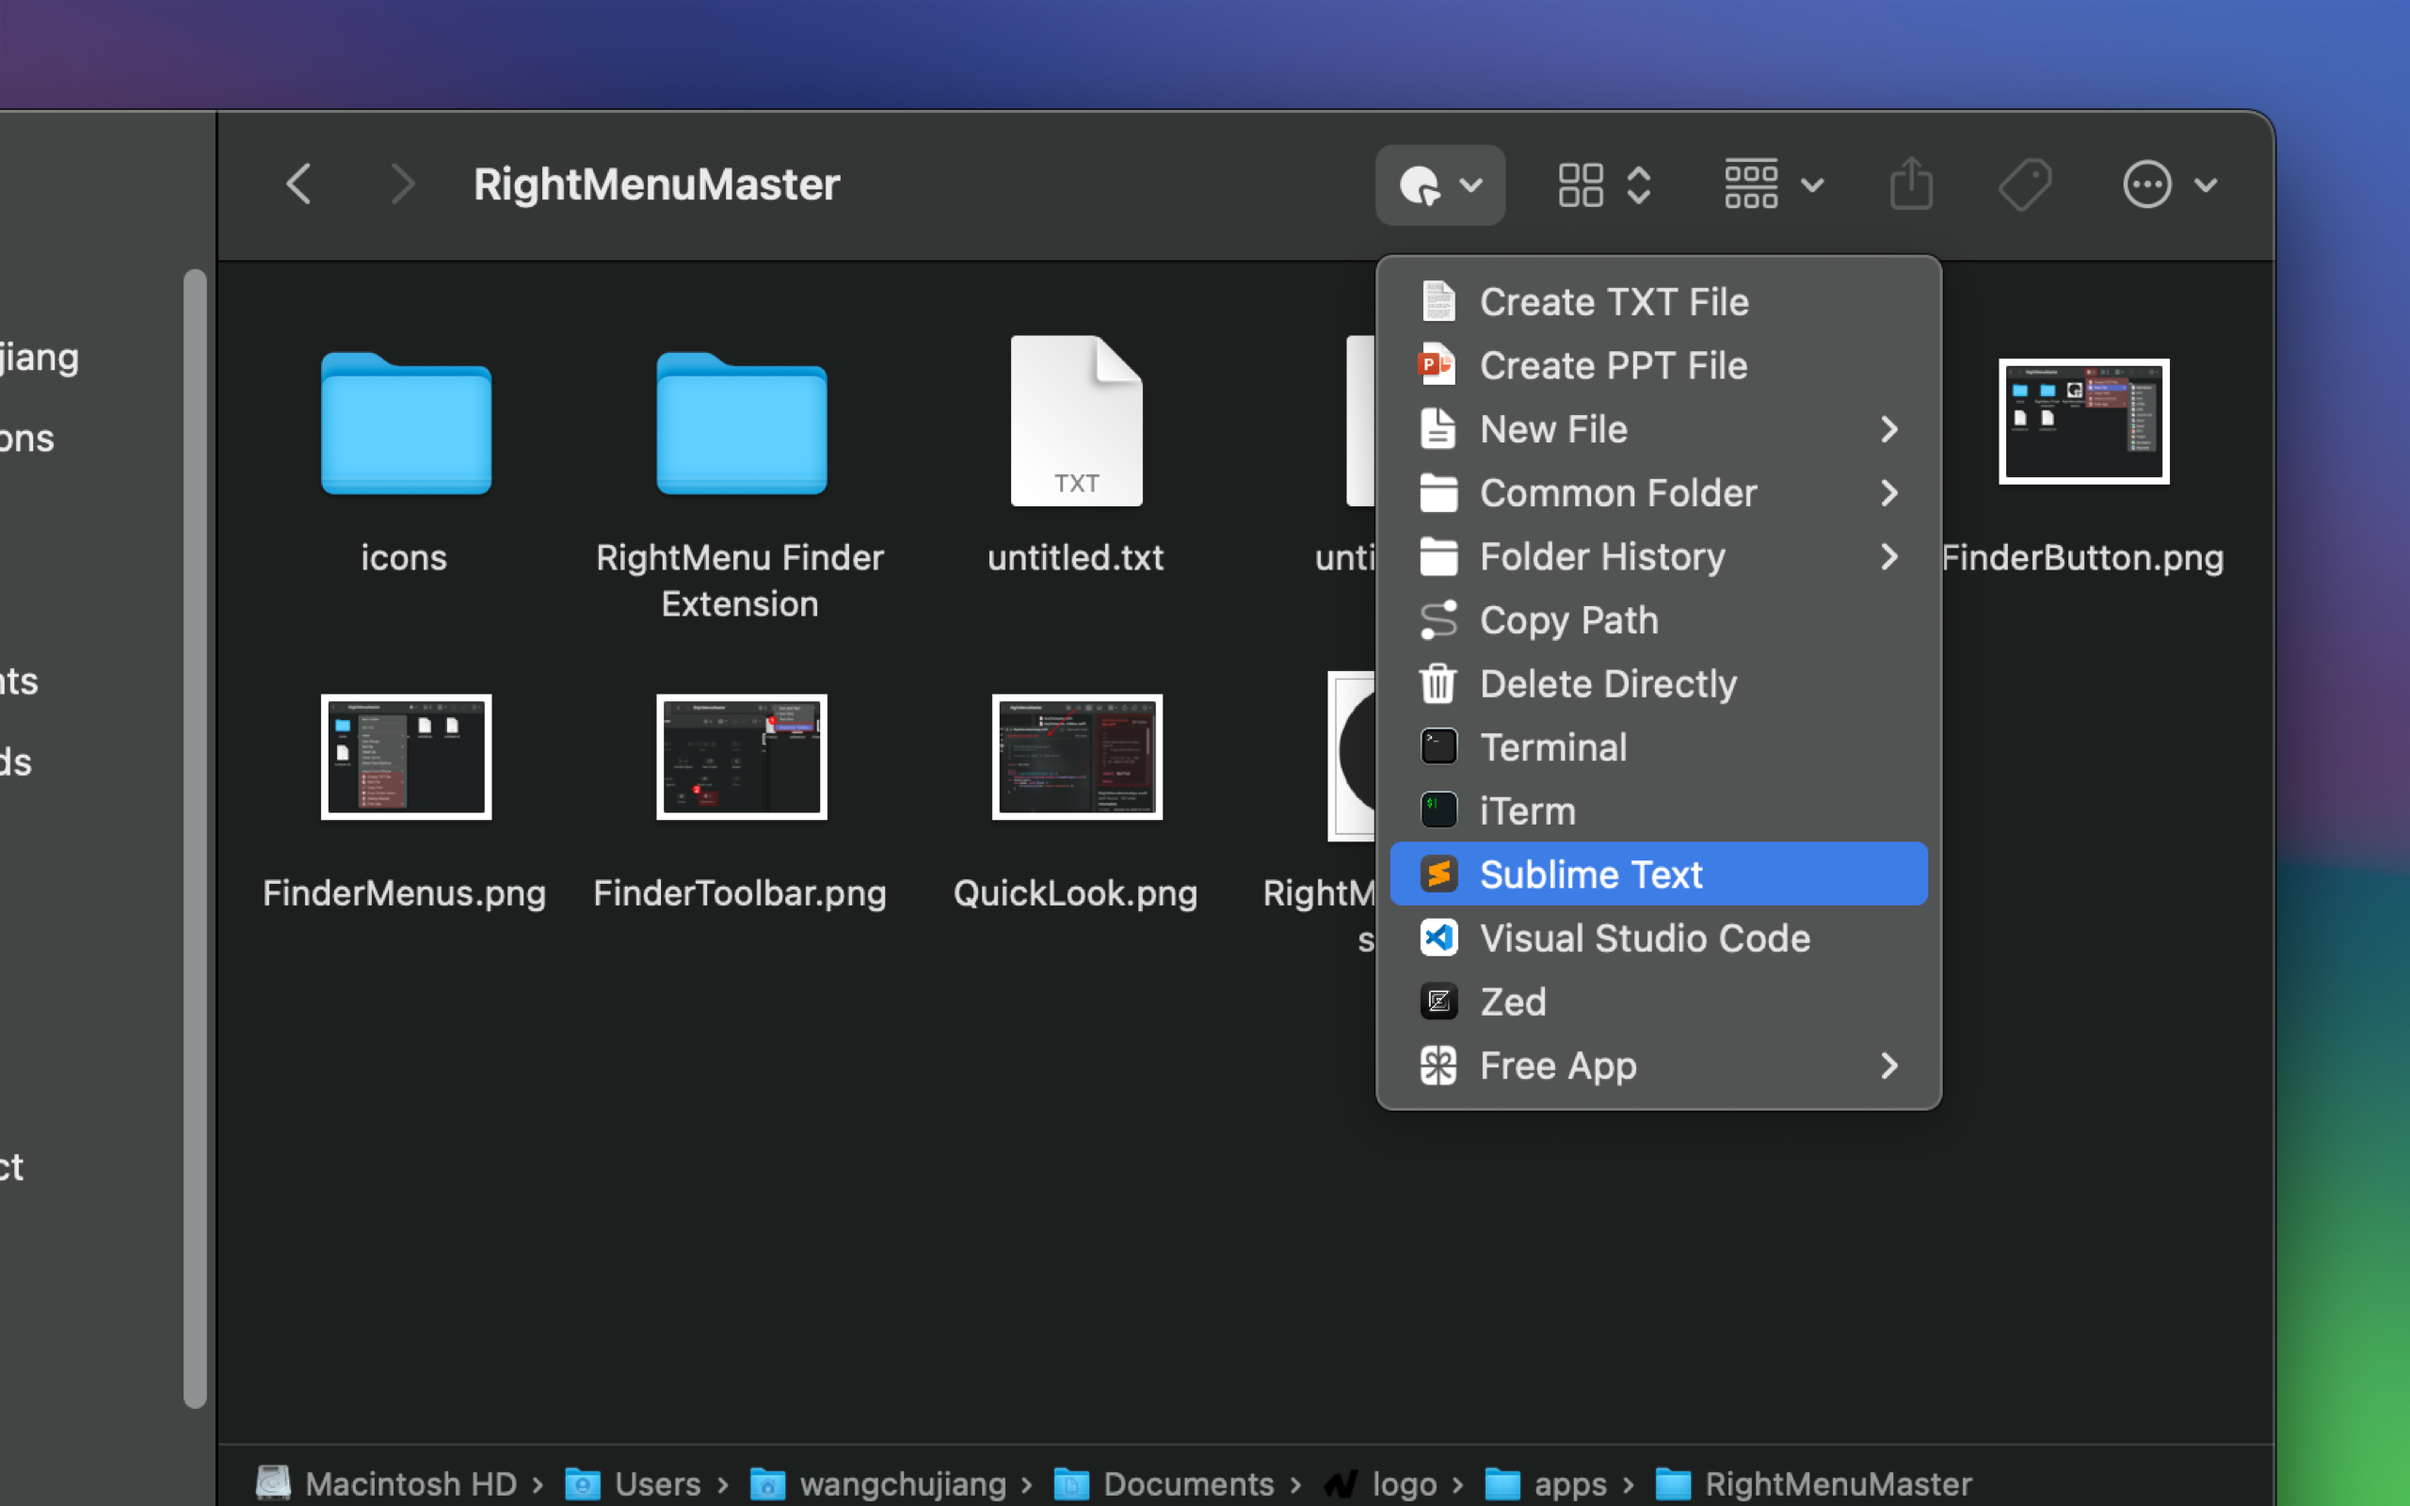
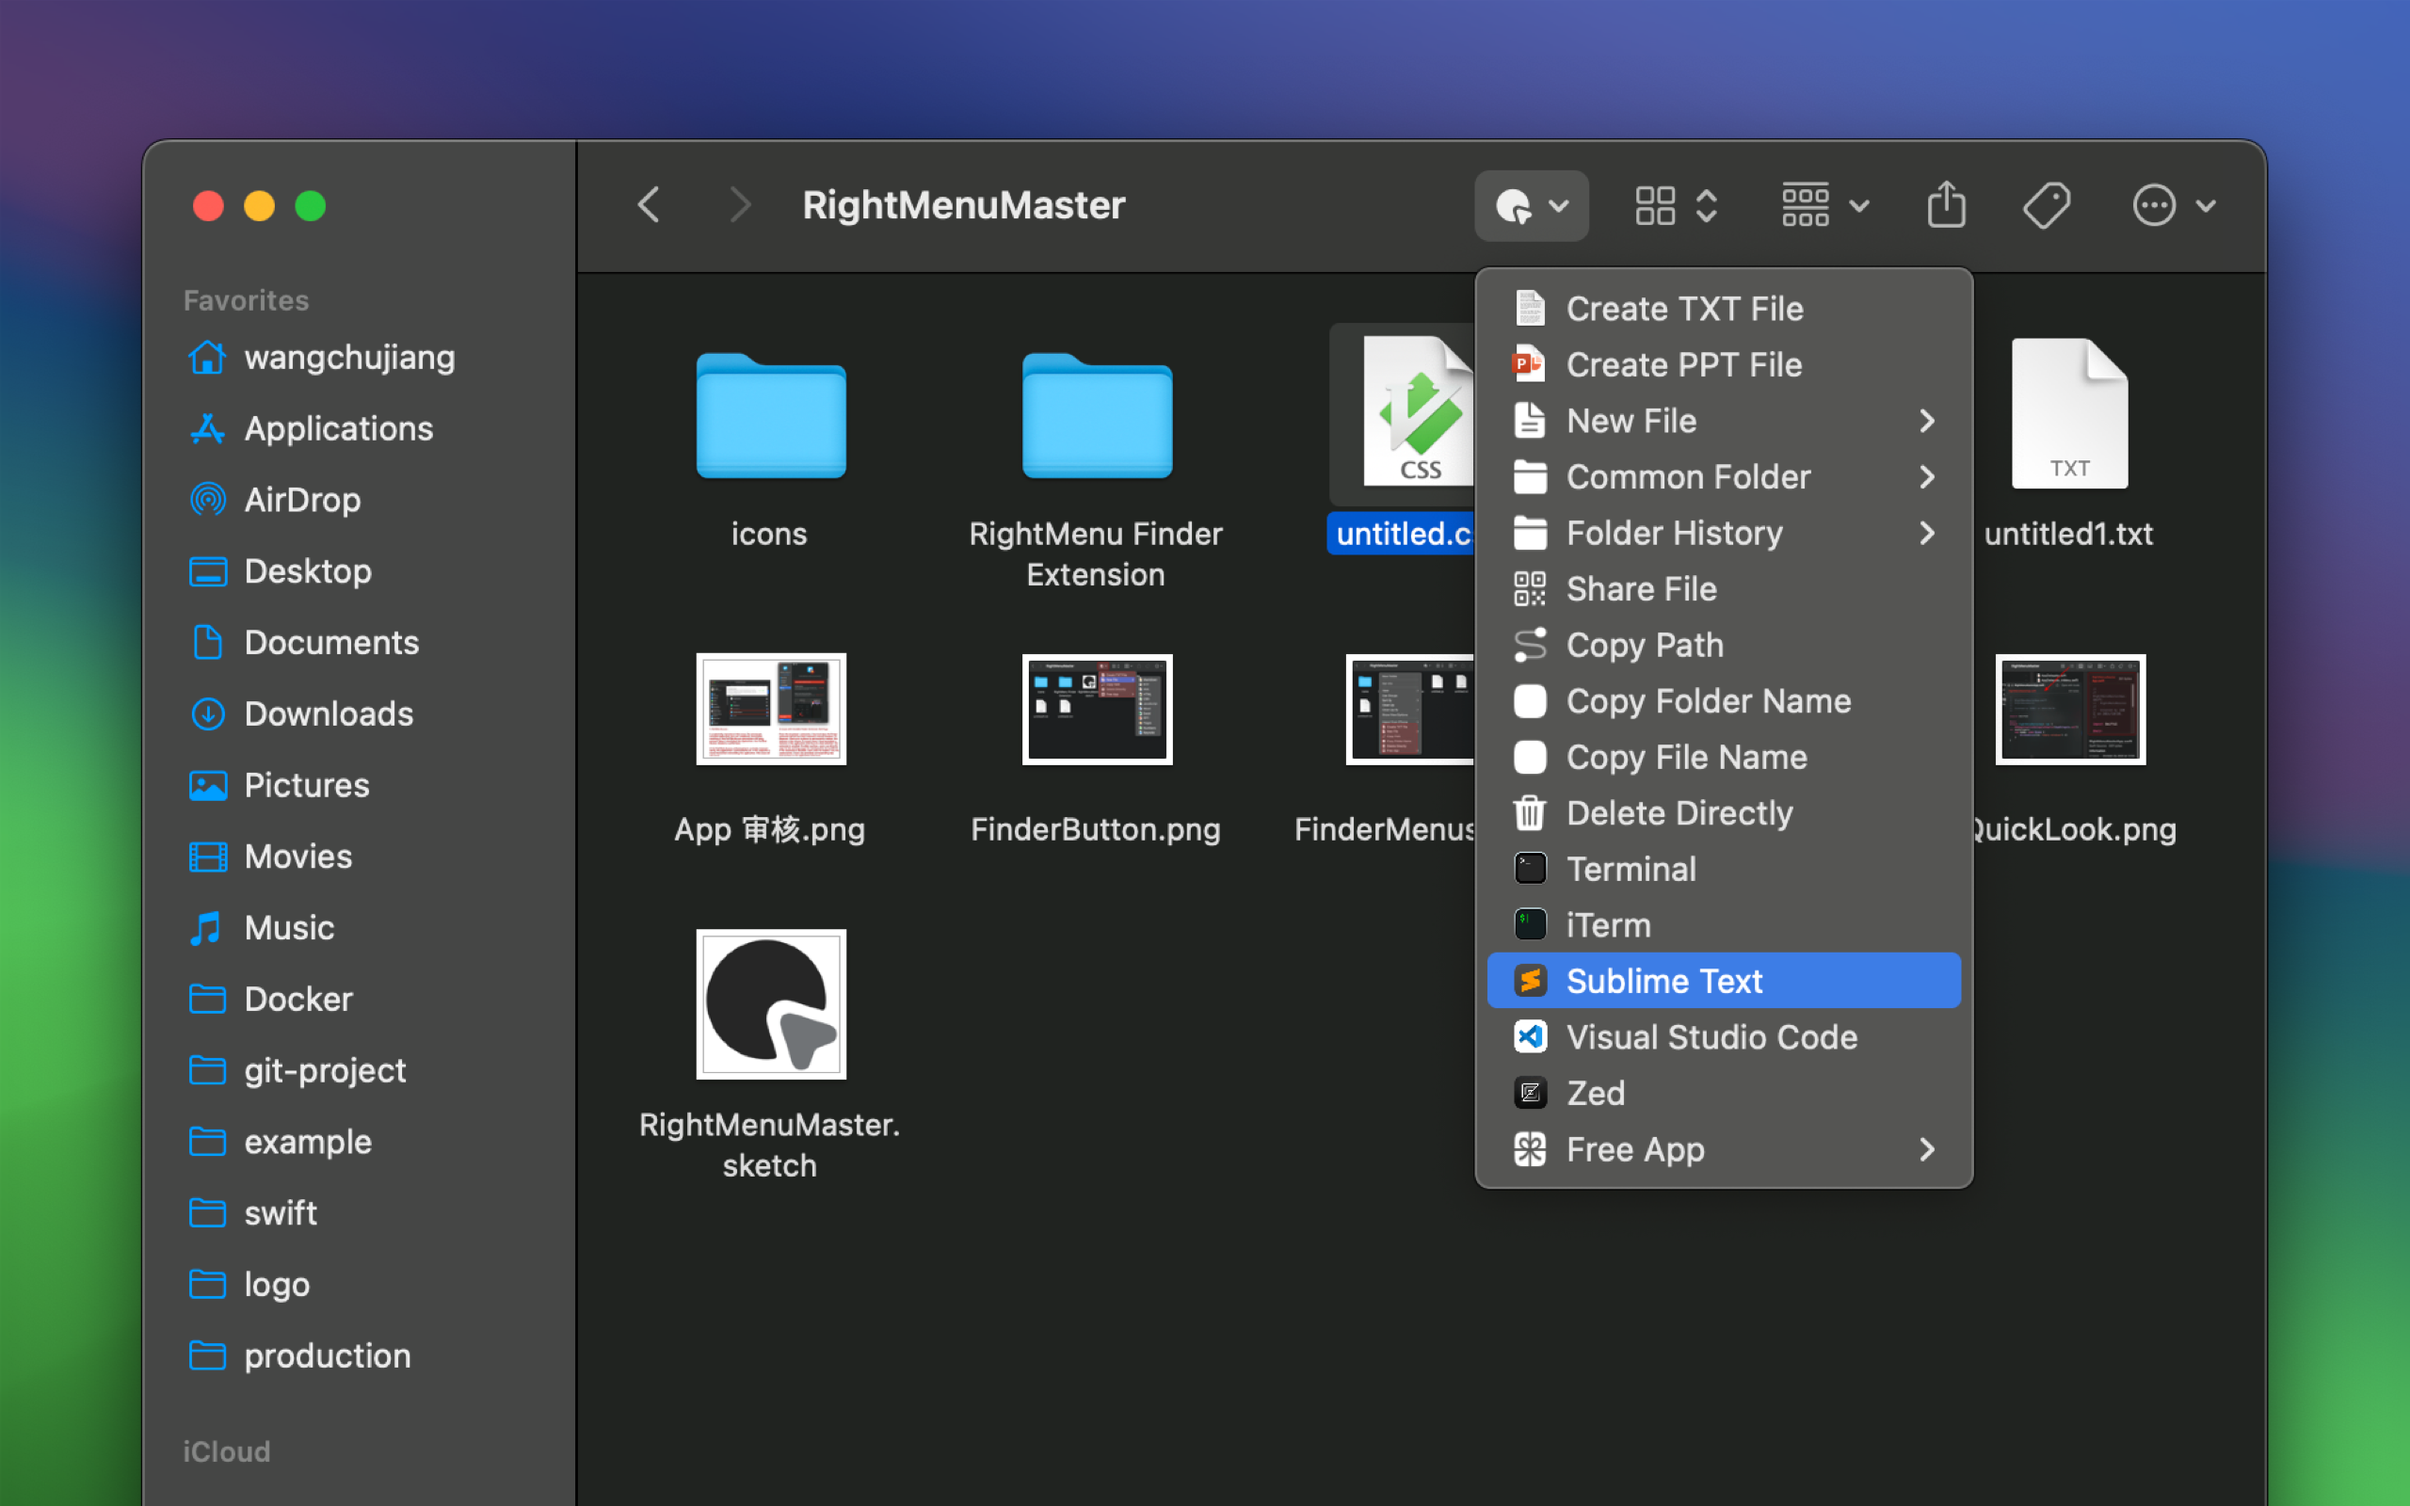
doc: update screenshots.

diff --git a/README.md b/README.md
@@ -54,6 +54,12 @@ Finder lacks a convenient way to create new files in specific formats, but Right
 
 A quick preview extension is provided for viewing source text files with syntax highlighting. This extension handles supported file formats via [Uniform Type Identifiers (UTI)](https://developer.apple.com/library/archive/documentation/FileManagement/Conceptual/understanding_utis/understand_utis_intro/understand_utis_intro.html), rather than relying solely on file extensions. The UTI definitions include a list of associated file extensions and MIME types.
 
+**■ File QR Code Sharing**
+
+Right-click on a file to generate a local network download link and a QR code. Scan the QR code to download the folder.
+
+![RightMenu Master Screenshot 6](./assets/screenshots-6.png)
+
 **■ Frequently Used Folders**
 
 Supports custom frequently used folders for quick access to directories or to open a new terminal window directly in a specific folder.

diff --git a/README.zh.md b/README.zh.md
@@ -52,6 +52,12 @@ Finder 缺乏便捷的方式来创建特定格式的新文件，而 RightMenu Ma
 
 提供了一种快速查看扩展，可用于预览带有语法高亮的源文本文件。该扩展通过[统一类型标识符 (UTI)](https://developer.apple.com/library/archive/documentation/FileManagement/Conceptual/understanding_utis/understand_utis_intro/understand_utis_intro.html) 来处理支持的文件格式，而不仅仅依赖于文件扩展名。在 UTI 的定义中包含了与其关联的文件扩展名和 MIME 类型列表。
 
+**■ 文件二维码分享**
+
+右键点击文件，可生成局域网下载链接，并同时生成二维码，扫描二维码即可下载该文件夹。
+
+![RightMenu Master Screenshot 6](./assets/screenshots-6.png)
+
 **■ 常用文件夹**
 
 支持自定义常用文件夹，可快速访问目录或在指定文件夹中直接新建终端窗口。
